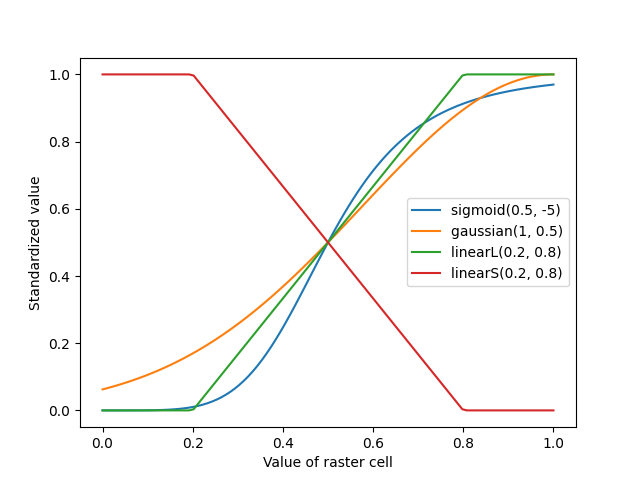
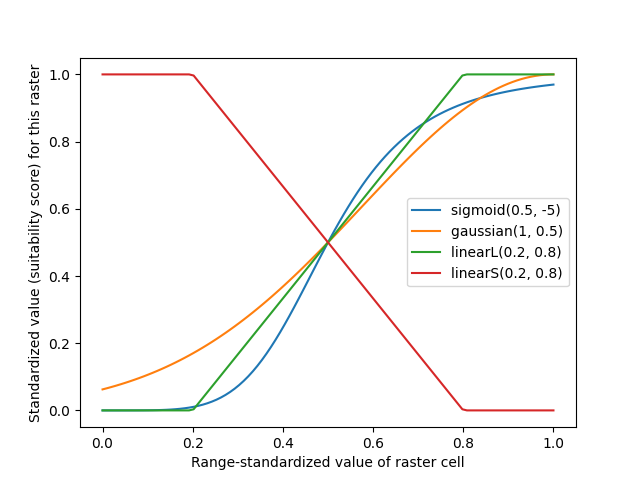
Add simplified figure for std_func_vis and improve axis labels

Changed region(s): [[0.0312, 0.125, 0.0625, 0.875], [0.2812, 0.9375, 0.7188, 1.0]]

diff --git a/other/std_func_vis/vis.py b/other/std_func_vis/vis.py
@@ -1,6 +1,23 @@
+"""
+Previous versions of this had misleading axis labels
+
+The x-axis is "still" the value of the raster cell, however it is unclear
+what the raster layer is representing and the units are. Degree Celsius? Meters? kWh?
+
+The answer is that it represents a generic raster layer. If we pretend that layer
+ranges from 0 to 1, this is how the standardization functions will transform the
+values into suitability scores
+
+"Pretending that the layer ranges from 0 to 1" is the same as "range-standardize
+the layer" (or reverse-range-standardize)
+
+The y-axis "still" represents the standardized value. The standardization functions
+take a raster layer with specific units, and transform them into suitability scores
+for that layer.
+"""
+
 import matplotlib.pyplot as plt
 import numpy as np
-import pandas as pd
 
 def sigmoid(m, s):
     # There's a ZeroDivisionError even though nothing is zero...
@@ -40,7 +57,16 @@ plt.plot(x, y2, label='gaussian(1, 0.5)')
 plt.plot(x, y3, label='linearL(0.2, 0.8)')
 plt.plot(x, y4, label='linearS(0.2, 0.8)')
 plt.legend()
-plt.xlabel('Value of raster cell')
-plt.ylabel('Standardized value')
+plt.xlabel('Range-standardized value of raster cell')
+plt.ylabel('Standardized value (suitability score) for this raster')
 plt.savefig('vis.png')
-#plt.show()
+
+plt.close()
+plt.plot(x, y1, label='S-curve')
+plt.plot(x, y3, label='Linear with clamps')
+plt.legend()
+plt.xlabel('Range-standardized value of raster cell')
+plt.ylabel('Standardized value (suitability score) for this raster')
+plt.gca().spines['right'].set_visible(False)
+plt.gca().spines['top'].set_visible(False)
+plt.savefig('simplified.png')
